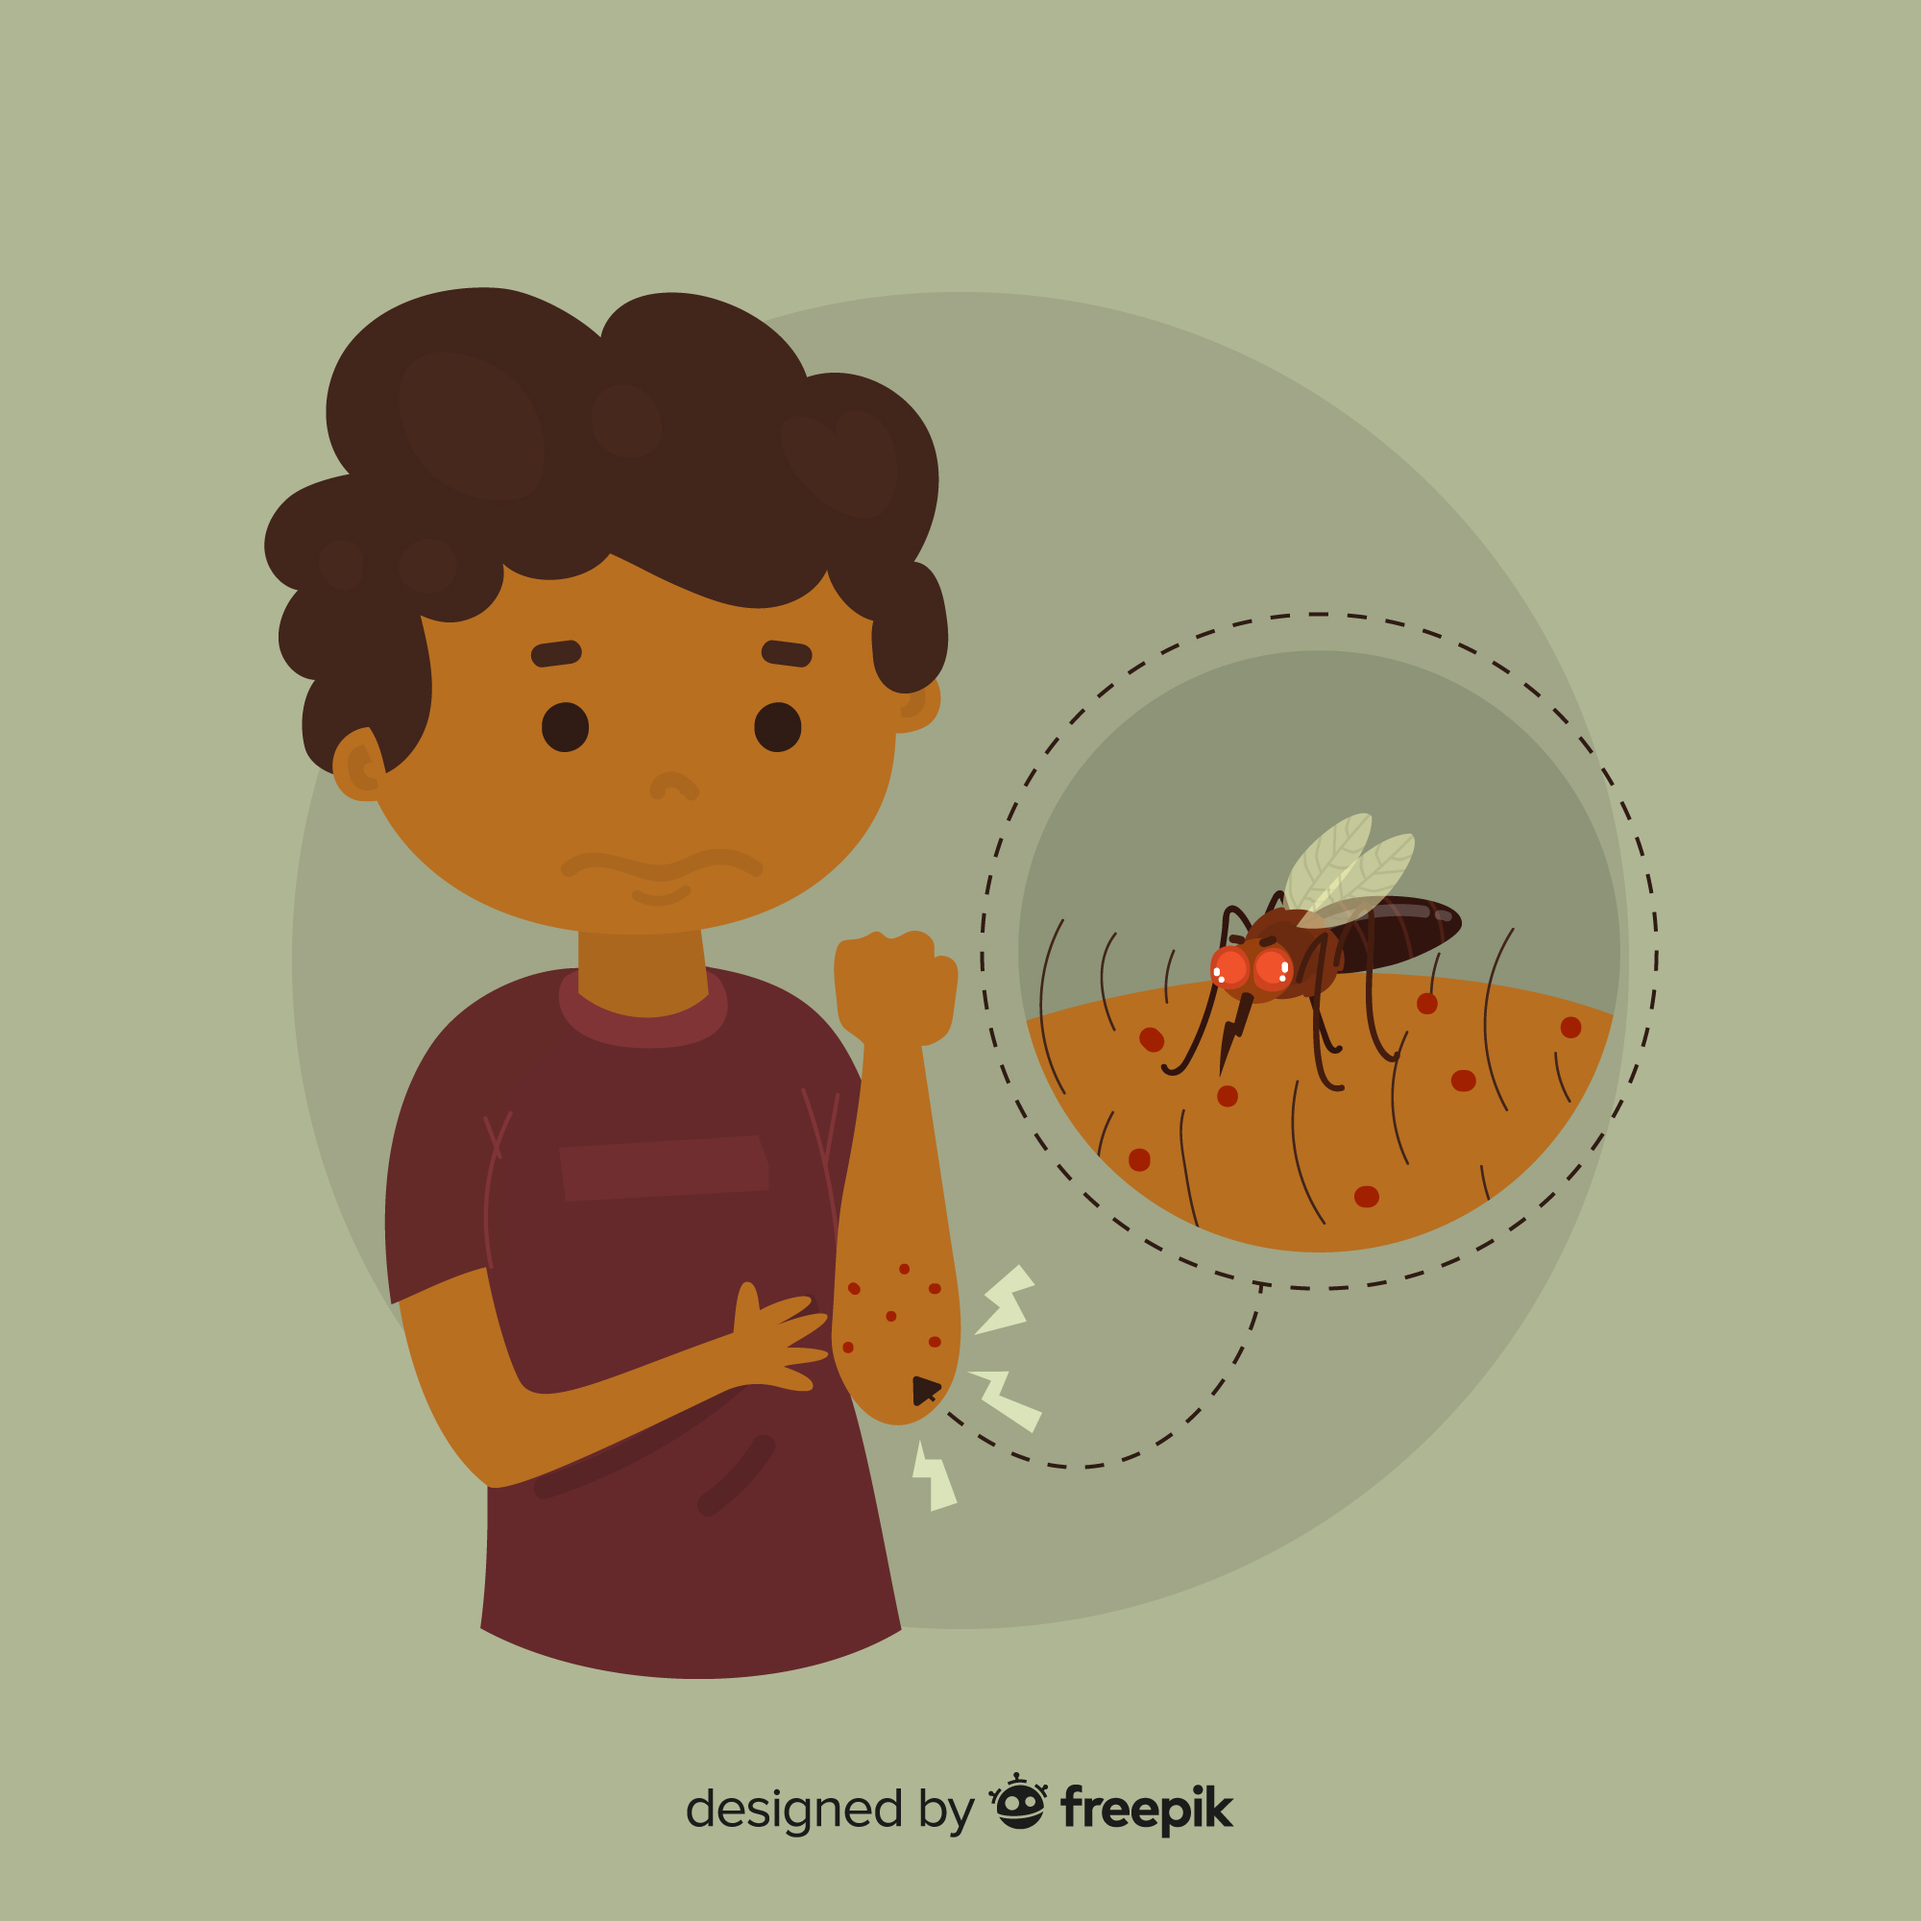
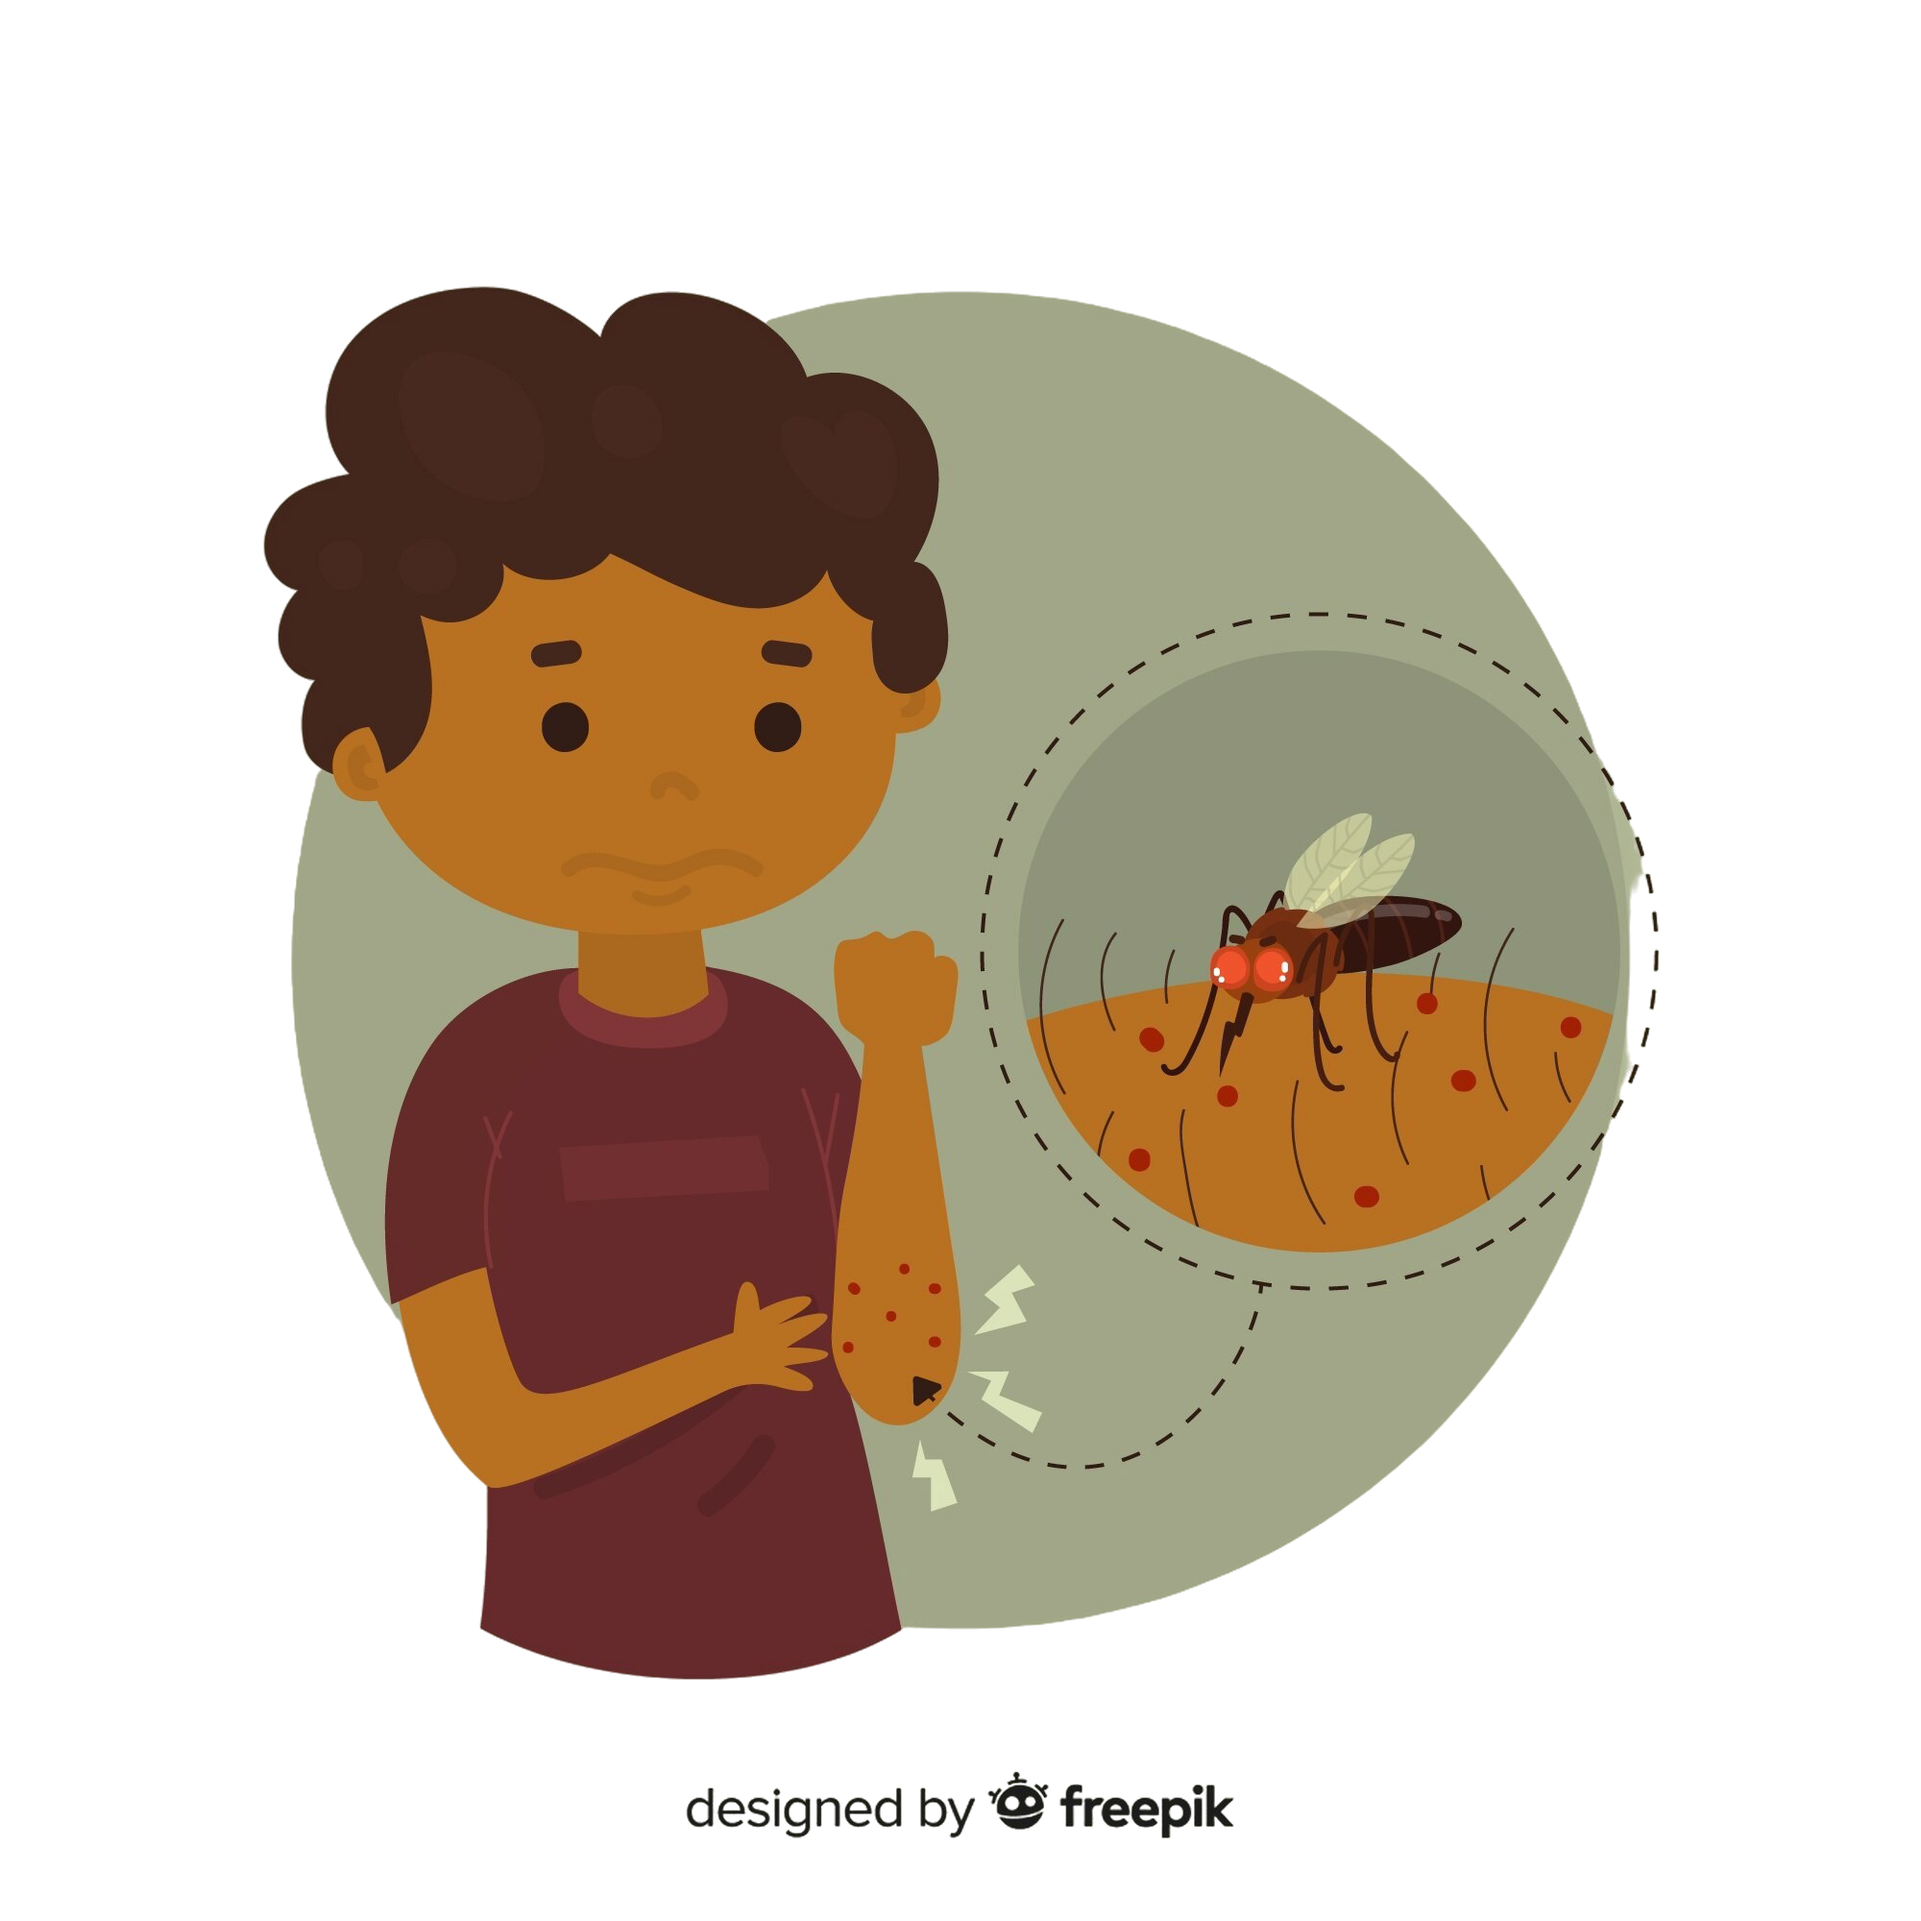
gaming page

diff --git a/src/pages/splashScreen/index.tsx b/src/pages/splashScreen/index.tsx
@@ -1,0 +1,111 @@
+import React, { useEffect } from 'react';
+import { View, Image, StyleSheet, Text, StatusBar } from 'react-native';
+import { useNavigation } from '@react-navigation/native';
+import { NativeStackNavigationProp } from '@react-navigation/native-stack';
+
+// Defina o tipo RootStackParamList para corresponder às suas rotas
+type RootStackParamList = {
+  SplashScreen: undefined;
+  initPage: undefined;
+  Login: undefined;
+  Sign: undefined;
+  MapaPage: undefined;
+  reportPage: undefined;
+  photo: undefined;
+  WelcomePage: undefined;
+  EvalsPage: undefined;
+  notifyPage: undefined;
+  GamingPage: undefined;
+  helpPage: undefined;
+  ProfilePage: undefined;
+  nearHospitalPage: undefined;
+  configPage: undefined;
+  ongPage: undefined;
+  QuestionPage: undefined;
+  CorretctA: undefined;
+  WrongA: undefined;
+  OutbreakPredictorPage: undefined;
+};
+
+// Crie um tipo para a navegação
+type NavigationProp = NativeStackNavigationProp<RootStackParamList>;
+
+const SplashScreen = () => {
+  const navigation = useNavigation<NavigationProp>();
+
+  useEffect(() => {
+    // Navigate to initPage after 3 seconds
+    const timer = setTimeout(() => {
+      navigation.navigate('WelcomePage');
+    }, 3000);
+
+    return () => clearTimeout(timer);
+  }, [navigation]);
+
+  return (
+    <View style={styles.container}>
+      <StatusBar backgroundColor="#FFFFFF" barStyle="dark-content" />
+      
+      {/* Main Africa Map Image */}
+      <View style={styles.mapContainer}>
+        <Image 
+          source={require('../../assets/africa-map 1.png')} 
+          style={styles.mapImage}
+          resizeMode="contain"
+        />
+      </View>
+      
+      {/* App Name */}
+      <Text style={styles.appName}>MapaZZZ</Text>
+      
+      {/* Logo at bottom */}
+      <View style={styles.logoContainer}>
+        <Image 
+          source={require('../../assets/logo.png')} 
+          style={styles.logo}
+          resizeMode="contain"
+        />
+      </View>
+    </View>
+  );
+};
+
+const styles = StyleSheet.create({
+  container: {
+    flex: 1,
+    backgroundColor: '#FFFFFF',
+    alignItems: 'center',
+    justifyContent: 'space-between',
+    paddingVertical: 50,
+  },
+  mapContainer: {
+    flex: 1,
+    justifyContent: 'center',
+    alignItems: 'center',
+    width: '100%',
+  },
+  mapImage: {
+    width: 250,
+    height: 250,
+    tintColor: '#800020', // Burgundy color as in the image
+  },
+  appName: {
+    fontSize: 32,
+    fontWeight: 'bold',
+    color: '#800020',
+    marginVertical: 20,
+    fontFamily: 'Poppins-Bold', // Using the Poppins font family from your existing app
+  },
+  logoContainer: {
+    marginTop: 20,
+    width: '100%',
+    alignItems: 'center',
+  },
+  logo: {
+    width: 120,
+    height: 60,
+    tintColor: '#800020', // Burgundy color as in the image
+  },
+});
+
+export default SplashScreen;

diff --git a/src/pages/gamingPage/questionPage/index.tsx b/src/pages/gamingPage/questionPage/index.tsx
@@ -1,4 +1,4 @@
-import React, { useState } from "react";
+import React, { useEffect, useState } from "react";
 import {
   View,
   Text,
@@ -19,10 +19,16 @@ const { width, height } = Dimensions.get("window");
 const QuizQuestionScreen = ({ navigation }: any) => {
   const [inputVisible, setInputVisible] = useState(false);
   const [answer, setAnswer] = useState("");
+  const [hasText, setHasText] = useState(false); // Novo estado
+  const [keyboardOffset, setKeyboardOffset] = useState(0);
   
   const handleResponder = () => {
     setInputVisible(true);
   };
+
+  useEffect(() => {
+    setHasText(answer.length > 0);
+  }, [answer]);
 
   const handleSubmit = () => {
     // Logic to handle submission and move to next question
@@ -100,25 +106,30 @@ const QuizQuestionScreen = ({ navigation }: any) => {
               </TouchableOpacity>
             </View>
             
-            <TextInput
-              style={styles.input}
-              placeholder="Escreva sua mensagem..."
-              placeholderTextColor="#FFFFFF80"
-              value={answer}
-              onChangeText={setAnswer}
-              multiline
-              autoFocus
-            />
-            
-            <View style={styles.buttonRow}>
-              <TouchableOpacity style={styles.actionButton} onPress={() => navigation.navigate("CorretctA")}>
-                <Text style={styles.buttonText}>Enviar</Text>
-              </TouchableOpacity>
+              <TextInput
+                style={styles.input}
+                placeholder="Escreva sua mensagem..."
+                placeholderTextColor="#FFFFFF80"
+                value={answer}
+                onChangeText={(text) => {
+                  setAnswer(text);
+                  setHasText(text.length > 0); 
+                }}
+                multiline
+                autoFocus
+              />
               
-              <TouchableOpacity style={styles.actionButton} onPress={() => navigation.navigate("WrongA")}>
-                <Text style={styles.buttonText}>Pular</Text>
-              </TouchableOpacity>
-            </View>
+              {hasText && (
+                <View style={styles.buttonRow}>
+                  <TouchableOpacity style={styles.actionButton} onPress={() => navigation.navigate("CorretctA")}>
+                    <Text style={styles.buttonText}>Enviar</Text>
+                  </TouchableOpacity>
+                  
+                  <TouchableOpacity style={styles.actionButton} onPress={() => navigation.navigate("WrongA")}>
+                    <Text style={styles.buttonText}>Pular</Text>
+                  </TouchableOpacity>
+                </View>
+              )}
           </View>
         )}
       </KeyboardAvoidingView>

diff --git a/App.tsx b/App.tsx
@@ -26,7 +26,8 @@ import ongPage from './src/pages/ongPage';
 import QuestionPage from './src/pages/gamingPage/questionPage';
 import CorretctA from './src/pages/gamingPage/correctAnwser';
 import WrongA from './src/pages/gamingPage/wrongAnwser';
-import OutbreakPredictorPage from './src/pages/outbreakPredictorPage'
+import OutbreakPredictorPage from './src/pages/outbreakPredictorPage';
+import SplashScreen from './src/pages/splashScreen';
 
 import { registerForPushNotificationsAsync } from './src/pages/manegeNotification/index';
 import { Import } from 'lucide-react-native';
@@ -59,8 +60,9 @@ export default function App() {
     <GestureHandlerRootView style={{ flex: 1 }}>
        <StatusBar backgroundColor="#ffffff" barStyle="dark-content" />
       <AlertProvider>
-        <NavigationContainer> 
+        <NavigationContainer>
           <Stack.Navigator initialRouteName="WelcomePage">
+            <Stack.Screen name="SplashScreen" component={SplashScreen} options={{ headerShown: false }} />
             <Stack.Screen name="QuestionPage" component={QuestionPage} options={{ headerShown: false }} />
             <Stack.Screen name="GamingPage" component={GamingPage} options={{ headerShown: false }} />
             <Stack.Screen name="CorretctA" component={CorretctA} options={{ headerShown: false }} />

diff --git a/src/pages/profilePage/index.tsx b/src/pages/profilePage/index.tsx
@@ -57,11 +57,11 @@ const ProfilePage = ({ navigation }: any) => {
         <View style={styles.statsContainer}>
           <View style={styles.statItem}>
             <Text style={styles.statNumber}>{name}</Text>
-            <TouchableOpacity
-              style={{ alignItems: "center", flexDirection: "row" }}>
+            <View
+              style={{ alignItems: "center", flexDirection: "row", justifyContent:'center'}}>
               <MapPin color="#6D122C" size={18} style={{ marginRight: 6 }} />
               <Text style={styles.statLabel}>{localizacao}</Text>
-            </TouchableOpacity>
+            </View>
           </View>
         </View>
 
@@ -181,7 +181,8 @@ const styles = StyleSheet.create({
   },
   menuContainer: {
     flex: 1,
-    paddingHorizontal: 20,
+    marginTop: 20,
+    paddingHorizontal: 30,
   },
   menuItem: {
     borderWidth: 1,
@@ -189,13 +190,13 @@ const styles = StyleSheet.create({
     flexDirection: "row",
     alignItems: "center",
     backgroundColor: "white",
-    borderRadius: 15,
-    padding: 15,
+    borderRadius: 12,
+    padding: 12,
     marginBottom: 10,
   },
   menuIconContainer: {
-    width: 40,
-    height: 40,
+    width: 35,
+    height: 35,
     borderRadius: 10,
     justifyContent: "center",
     alignItems: "center",

diff --git a/src/pages/configPage/index.tsx b/src/pages/configPage/index.tsx
@@ -240,7 +240,7 @@ const styles = StyleSheet.create({
     borderColor: "#dfdfdf",
     borderRadius: 12,
     marginTop: 24,
-    padding: 16,
+    padding: 14,
   },
   logoutIcon: {
     marginRight: 12,
